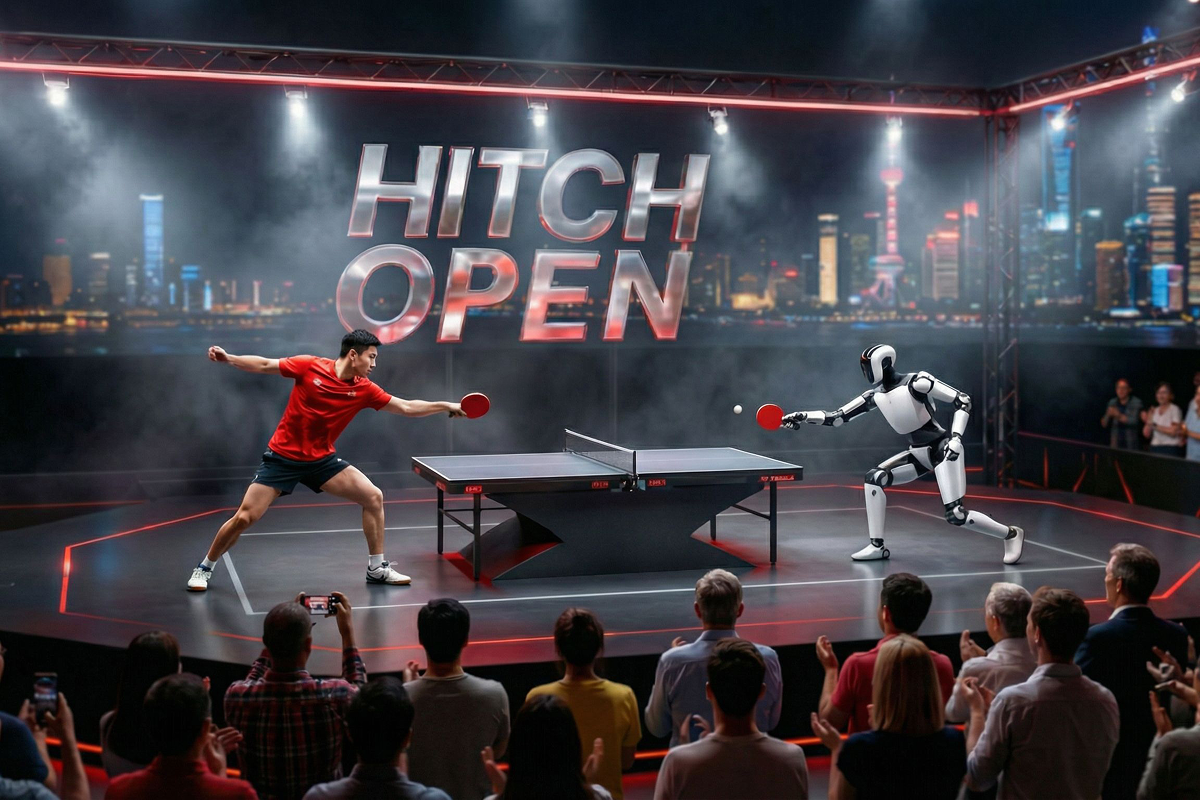
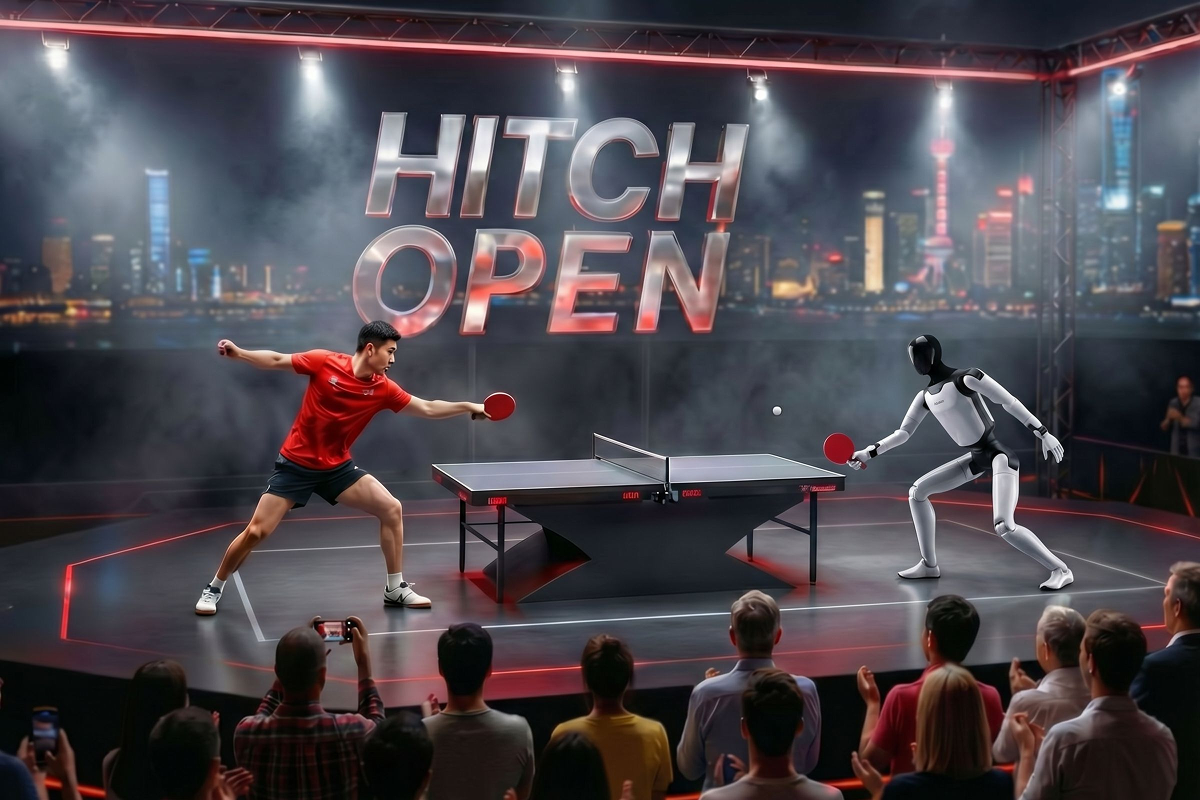
Track modal HOPE/Tianmen detail overlay, About rewrite, timeline isHidden filter, Robotics Business News
- Track modal: hero overlay + event cards for HOPE (WAIC + World Humanoid Robot Games)
- About section: "AlphaGo Moment" -> "Physical AI's Next Watershed Moment" (ZH + EN)
- Timeline: filter isHidden entries in renderTimeline
- Media: add Robotics Business News 2026-06-15 (HOPE joins WHRG 2026, isLarge, news-06-15-1.jpg)
- Refresh pingpong-track / tianmen2026-track images

diff --git a/css/style.css b/css/style.css
@@ -648,6 +648,30 @@
             overflow-y: auto;
             animation: slideUp 0.3s ease;
             box-shadow: 0 20px 60px rgba(0, 0, 0, 0.8);
+            scrollbar-width: thin;
+            scrollbar-color: rgba(255, 255, 255, 0.15) transparent;
+        }
+
+        .track-modal-content::-webkit-scrollbar {
+            width: 6px;
+        }
+
+        .track-modal-content::-webkit-scrollbar-track {
+            background: transparent;
+        }
+
+        .track-modal-content::-webkit-scrollbar-thumb {
+            background: transparent;
+            border-radius: 3px;
+            transition: background 0.3s;
+        }
+
+        .track-modal-content:hover::-webkit-scrollbar-thumb {
+            background: rgba(255, 255, 255, 0.2);
+        }
+
+        .track-modal-content::-webkit-scrollbar-thumb:hover {
+            background: rgba(255, 255, 255, 0.35);
         }
 
         @keyframes slideUp {
@@ -707,6 +731,135 @@
             border-radius: 10px;
             display: block;
             margin: 0 auto;
+        }
+
+        .track-modal-desc {
+            color: #d0d0d0;
+            font-size: 15px;
+            line-height: 1.7;
+            margin-top: 30px;
+            max-width: 1000px;
+            margin-left: auto;
+            margin-right: auto;
+        }
+
+        .track-modal-desc:empty {
+            display: none;
+        }
+
+        .track-modal-desc h4 {
+            color: #ffffff;
+            font-size: 18px;
+            margin: 24px 0 10px;
+            padding-bottom: 6px;
+            border-bottom: 1px solid rgba(255, 255, 255, 0.12);
+        }
+
+        .track-modal-desc h4:first-child {
+            margin-top: 0;
+        }
+
+        .track-modal-desc p {
+            margin: 0 0 12px;
+        }
+
+        .track-modal-hero {
+            position: relative;
+            max-width: 1200px;
+            margin: 0 auto 32px;
+            border-radius: 10px;
+            overflow: hidden;
+        }
+
+        .track-modal-hero img {
+            margin: 0 auto !important;
+            border-radius: 0 !important;
+            display: block;
+        }
+
+        .track-modal-intro-overlay {
+            position: absolute;
+            left: 0;
+            right: 0;
+            bottom: 0;
+            padding: 80px 32px 26px;
+            background: linear-gradient(180deg, rgba(0, 0, 0, 0) 0%, rgba(0, 0, 0, 0.55) 35%, rgba(0, 0, 0, 0.88) 100%);
+            color: #ffffff;
+            font-size: 15px;
+            line-height: 1.7;
+            pointer-events: none;
+        }
+
+        .track-modal-intro-overlay:empty {
+            display: none;
+        }
+
+        .track-modal-intro-overlay p {
+            margin: 0;
+        }
+
+        @media (max-width: 768px) {
+            .track-modal-intro-overlay {
+                padding: 50px 18px 18px;
+                font-size: 13px;
+                line-height: 1.6;
+            }
+        }
+
+        .track-events {
+            display: grid;
+            grid-template-columns: 1fr 1fr;
+            gap: 32px;
+        }
+
+        .track-event-card {
+            display: flex;
+            flex-direction: column;
+        }
+
+        .track-event-date {
+            color: #9aa0a6;
+            font-size: 14px;
+            font-weight: 600;
+            padding: 6px 0 6px 14px;
+            border-left: 4px solid #CD202B;
+            margin-bottom: 12px;
+        }
+
+        .track-event-title {
+            color: #CD202B;
+            font-size: 22px;
+            font-weight: 700;
+            margin: 0 0 16px;
+            border-bottom: none;
+            padding-bottom: 0;
+        }
+
+        .track-event-body {
+            color: #c8c8c8;
+            font-size: 14px;
+            line-height: 1.75;
+            margin: 0 0 14px;
+        }
+
+        .track-event-body strong {
+            color: #ffffff;
+            font-weight: 600;
+        }
+
+        .track-event-body:last-child {
+            margin-bottom: 0;
+        }
+
+        @media (max-width: 768px) {
+            .track-events {
+                grid-template-columns: 1fr;
+                gap: 24px;
+            }
+
+            .track-event-title {
+                font-size: 18px;
+            }
         }
 
         @media (max-width: 768px) {

diff --git a/js/script.js b/js/script.js
@@ -74,6 +74,50 @@ const trackTitles = {
     }
 };
 
+// Track detailed descriptions (HTML allowed)
+const trackDetails = {
+    'pingpong2026': {
+        zh: {
+            intro: `HOPE AI Challenge 是 Hitch Open 2026 赛季全新旗舰赛项，全球首个 AI 自主决策机器人乒乓球赛事。机器人全程无人工干预，依托视觉实时感知、轨迹预测、战术选择与击球规划，与人类高水平选手高速连续对抗。两大核心节点贯穿 2026 赛季——7 月 WAIC 全球首发，8 月世界人形机器人运动会世界级实战验证。`,
+            body: `
+            <div class="track-events">
+                <div class="track-event-card">
+                    <div class="track-event-date">2026.7</div>
+                    <h4 class="track-event-title">WAIC 世界人工智能大会</h4>
+                    <p class="track-event-body">WAIC 是全球人工智能领域最具影响力的国家级顶级盛会之一，由国家部委、中科院、中国科协及上海市人民政府共同主办，是中国面向全球展示 AI 前沿趋势、产业方向与国际合作的重要窗口。</p>
+                    <p class="track-event-body">Hitch Open 将在 2026 WAIC 期间呈现 AI 自主决策机器人乒乓表演赛，以高观赏性、高互动性和高技术密度的机器人竞技场景，展示物理智能在真实运动对抗中的感知、决策与执行能力。</p>
+                </div>
+                <div class="track-event-card">
+                    <div class="track-event-date">2026.8.22-26</div>
+                    <h4 class="track-event-title">世界人形机器人运动会</h4>
+                    <p class="track-event-body">世界人形机器人运动会是全球最具话题性和前瞻性的机器人竞技舞台之一，依托国家级平台、央级媒体传播势能和北京"冰丝带"这一世界级地标，具备极强的科技传播力、公众关注度和国际影响力。</p>
+                    <p class="track-event-body">Hitch Open 将在这一顶级舞台上承办 AI 自主决策机器人乒乓官方比赛项目，以高观赏性、高技术密度和高实战价值的机器人竞技形式，集中呈现人形机器人在感知、决策、控制、协调与实时反应能力上的综合水平，帮助品牌占位具身智能与人形机器人未来赛道。</p>
+                </div>
+            </div>
+        `
+        },
+        en: {
+            intro: `HOPE AI Challenge is the flagship new event of the Hitch Open 2026 season — the world's first AI autonomous decision-making robot table-tennis competition. Robots run end-to-end with no human intervention: real-time vision, trajectory prediction, tactical choice and swing planning enable sustained high-speed rallies against elite human players. Two anchor moments shape the 2026 season — global launch at WAIC in July, and world-class field validation at the World Humanoid Robot Games in August.`,
+            body: `
+            <div class="track-events">
+                <div class="track-event-card">
+                    <div class="track-event-date">2026.7</div>
+                    <h4 class="track-event-title">WAIC · World AI Conference</h4>
+                    <p class="track-event-body">WAIC is one of the most influential national-level AI summits worldwide, co-organized by central ministries, the Chinese Academy of Sciences, the China Association for Science and Technology and the Shanghai Municipal Government. It is China's principal window for presenting AI frontier trends, industry direction and international collaboration to the world.</p>
+                    <p class="track-event-body">At WAIC 2026, Hitch Open will present an AI autonomous decision-making robot table-tennis exhibition — a highly watchable, highly interactive, highly technical competition scene that showcases physical AI's perception, decision-making and execution in real, full-speed sports.</p>
+                </div>
+                <div class="track-event-card">
+                    <div class="track-event-date">2026.8.22-26</div>
+                    <h4 class="track-event-title">World Humanoid Robot Games</h4>
+                    <p class="track-event-body">The World Humanoid Robot Games is among the most talked-about and forward-looking robot competition stages globally. Backed by a national-level platform, top-tier state media reach and Beijing's world-class "Ice Ribbon" landmark, it commands exceptional tech-communication power, public attention and international influence.</p>
+                    <p class="track-event-body">Hitch Open will host the official AI autonomous decision-making robot table-tennis competition on this premier stage. A highly watchable, technically dense and combat-ready format showcases humanoid robots' integrated abilities in perception, decision-making, control, coordination and real-time reaction — anchoring the brand in the future track of embodied AI and humanoid robotics.</p>
+                </div>
+            </div>
+        `
+        }
+    }
+};
+
 // Load JSON data
 async function loadData() {
     try {
@@ -409,10 +453,11 @@ function renderTimeline() {
         tab.textContent = tab.getAttribute(`data-${currentLang}`) || tab.textContent;
     });
 
-    // Render items for active year
-    const items = activeTimelineYear === '2026'
+    // Render items for active year (skip isHidden)
+    const rawItems = activeTimelineYear === '2026'
         ? (timelineData.items2026 || [])
         : (timelineData.items2025 || []);
+    const items = rawItems.filter(item => !item.isHidden);
     renderTimelineItems(items);
 
     console.log(`✓ Rendered ${items.length} timeline items (${activeTimelineYear}) in ${currentLang}`);
@@ -479,6 +524,14 @@ function openTrackModal(trackType) {
     // Set title based on current language
     const lang = currentLang || 'zh';
     modalTitle.textContent = trackTitles[trackType][lang];
+
+    // Set intro overlay + body description if available
+    const detail = trackDetails[trackType];
+    const langDetail = detail ? detail[lang] : null;
+    const modalIntro = document.getElementById('trackModalIntro');
+    const modalDesc = document.getElementById('trackModalDesc');
+    if (modalIntro) modalIntro.innerHTML = langDetail && langDetail.intro ? `<p>${langDetail.intro}</p>` : '';
+    if (modalDesc) modalDesc.innerHTML = langDetail && langDetail.body ? langDetail.body : '';
 
     // Show modal
     modal.classList.add('active');

diff --git a/index.html b/index.html
@@ -14,7 +14,7 @@
     <link rel="apple-touch-icon" sizes="256x256" href="images/webclip.png">
 
     <!-- Stylesheet -->
-    <link rel="stylesheet" href="css/style.css?v=20260609">
+    <link rel="stylesheet" href="css/style.css?v=20260611f">
 </head>
 
 <body>
@@ -82,12 +82,12 @@
 
 
 
-    <!-- AlphaGo Moment Section -->
+    <!-- Watershed Moment Section -->
     <!-- About Section (includes records) -->
     <section id="about" class="section">
-        <h2 class="section-title">The AlphaGo Moment for Physical Intelligence</h2>
+        <h2 class="section-title">Physical AI's Next Watershed Moment</h2>
         <p class="section-subtitle">
-            On Tianmen Mountain's iconic 99 Bends, Hitch Open is defining the AlphaGo moment for autonomous driving.<br><br>A 10.77-km ascent, 1,100 meters of vertical change, and 99 technical corners—<br>F1 legend Romain Dumas once set the human benchmark with a 7'38"585 run.<br><br>This year, Tsinghua University's AI racecar completed a full autonomous summit run in 16'10"838<br>under extreme conditions with no GPS, low visibility, and slick surfaces—<br>marking the first time AI has achieved a complete 'perception–decision–action' loop in the real world.<br><br>This is the ignition point for the era of Physical Intelligence.
+            On Tianmen Mountain's iconic 99 Bends, Hitch Open is defining the next watershed moment for physical AI.<br><br>A 10.77-km ascent, 1,100 meters of vertical change, and 99 technical corners—<br>F1 legend Romain Dumas once set the human benchmark with a 7'38"585 run.<br><br>This year, Tsinghua University's AI racecar completed a full autonomous summit run in 16'10"838<br>under extreme conditions with no GPS, low visibility, and slick surfaces—<br>marking the first time AI has achieved a complete 'perception–decision–action' loop in the real world.<br><br>This is the ignition point for the era of Physical Intelligence.
         </p>
 
         <!-- Records Grid -->
@@ -713,7 +713,11 @@
             <button class="track-modal-close" onclick="closeTrackModal()">×</button>
             <div class="track-modal-body">
                 <h3 id="trackModalTitle">赛道图</h3>
-                <img id="trackModalImage" src="" alt="赛道图">
+                <div class="track-modal-hero">
+                    <img id="trackModalImage" src="" alt="赛道图">
+                    <div id="trackModalIntro" class="track-modal-intro-overlay"></div>
+                </div>
+                <div id="trackModalDesc" class="track-modal-desc"></div>
             </div>
         </div>
     </div>
@@ -739,7 +743,7 @@
         </div>
     </div>
 
-    <script src="js/script.js?v=20260609"></script>
+    <script src="js/script.js?v=20260612a"></script>
 </body>
 
 </html>

diff --git a/网站内容文档.md b/网站内容文档.md
@@ -18,9 +18,9 @@
 
 ---
 
-## 二、物理智能时代的AlphaGo时刻
+## 二、物理智能的下一个分水岭
 
-在天门山 99 道弯，Hitch Open 正创造自动驾驶的 AlphaGo 时刻。
+在天门山 99 道弯，Hitch Open 正创造物理智能的下一个分水岭。
 
 10.77 公里的天路，1100 米的落差，99 个弯道——F1 传奇车手 Romain Dumas 曾以 7'38"585 刷新人类极限。
 